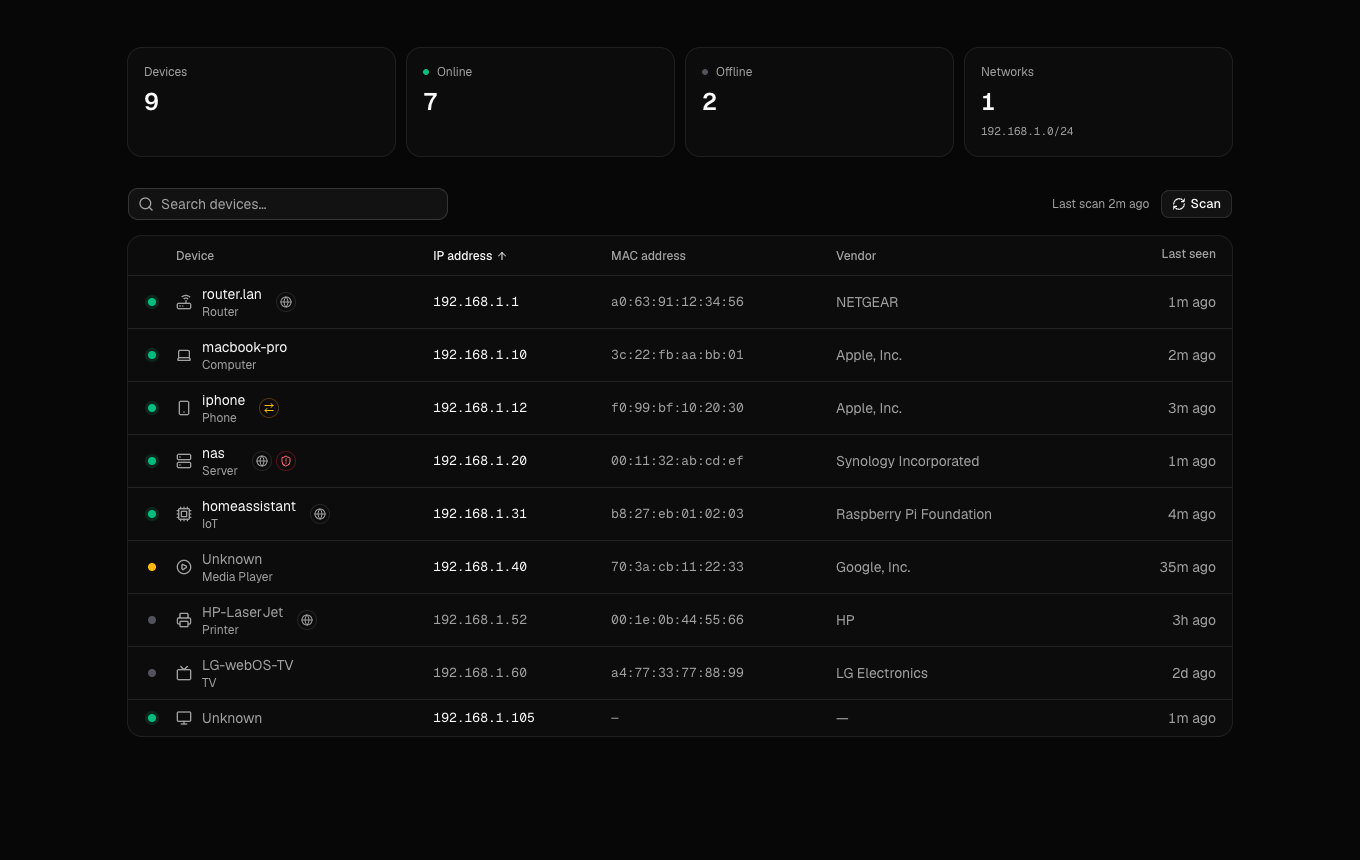
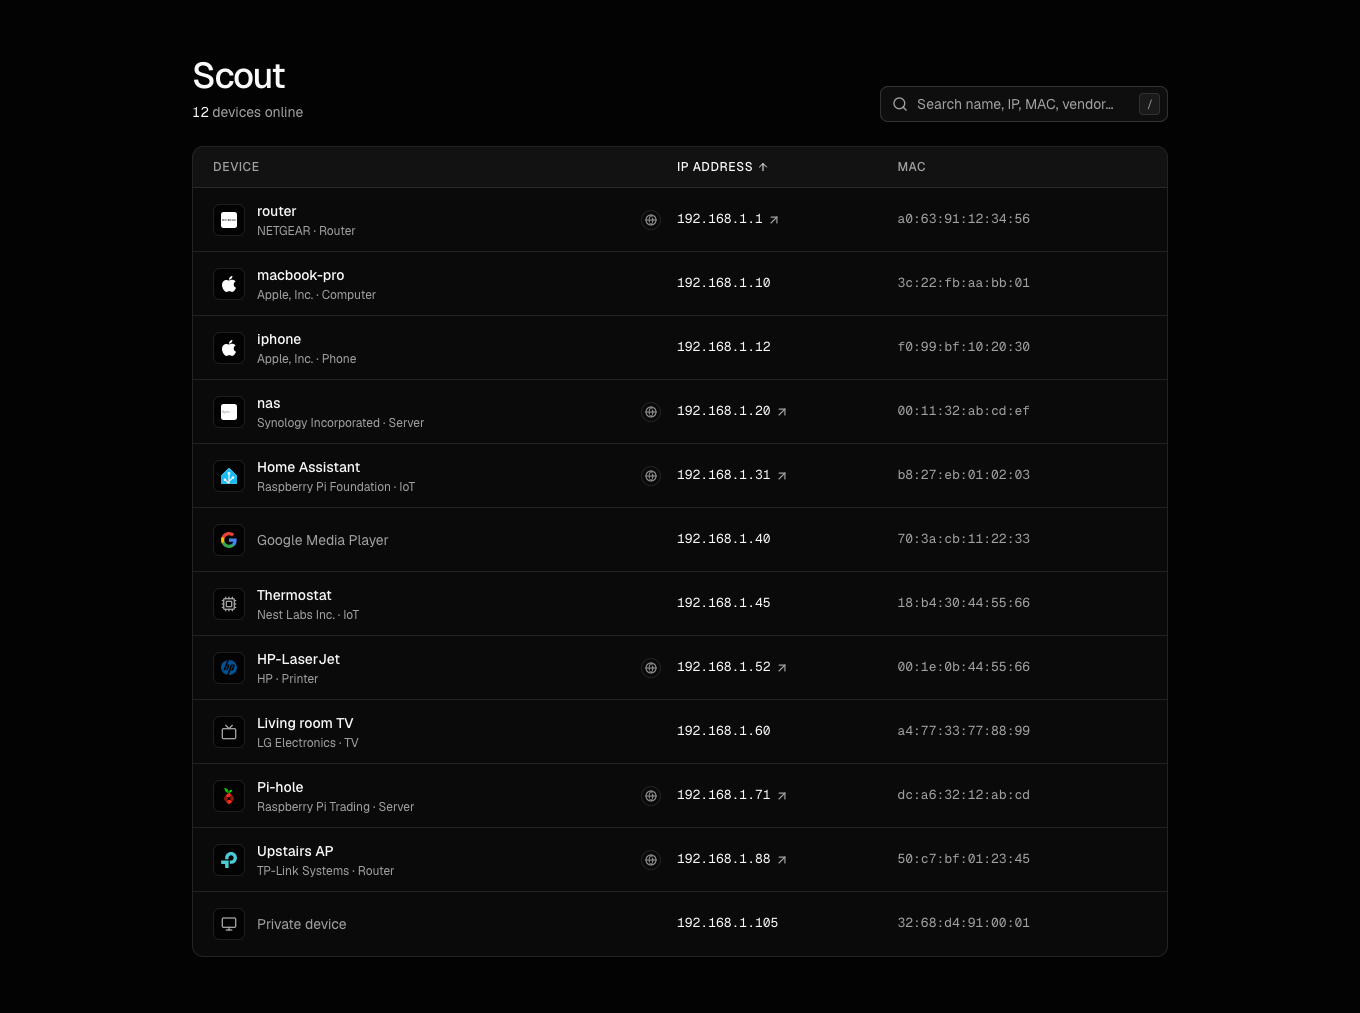
Refresh the README screenshot and details for the current dashboard (#7)

diff --git a/README.md b/README.md
@@ -1,6 +1,6 @@
 # Scout
 
-A minimal, self-hosted LAN scanner. It runs as one Go binary with an embedded dashboard that lists the devices on your network right now, one row per device, with no logins and no settings pages. It rescans every 60 seconds and drops a device after it misses two scans in a row.
+A minimal, self-hosted LAN scanner. It runs as one Go binary with an embedded dashboard that lists the devices on your network right now, one row per device, with no logins and no settings pages. It rescans every 60 seconds, the page refreshes itself every 10 seconds, and a device drops off the list after it misses two scans in a row.
 
 ![Scout dashboard](docs/screenshot.png)
 
@@ -24,6 +24,8 @@ services:
 ```
 
 Open `http://<host>:291`. Host networking is required, so this won't work under Docker Desktop on macOS or Windows.
+
+Press `/` to jump to the search box, which matches name, IP, MAC and vendor. When service detection is on, devices with a web interface get a globe badge and their IP links straight to it.
 
 Click a device name to rename it, then press Enter or click away to save. Click its icon to choose a device icon or search the Dashboard Icons collection. Names and icon choices are saved in `names.json` under `ORANGUTAN_DATA_DIR` (`./data/names.json` with the Compose volume above) and survive scans and restarts. Names are keyed by MAC address. An existing `devices.json` from an earlier version is imported once the first time Scout starts, then left alone. Scout also matches known vendor and device names to Dashboard Icons automatically; manual choices take precedence. Brand icons load from the [Dashboard Icons jsDelivr CDN](https://github.com/homarr-labs/dashboard-icons#direct-links), so they need browser internet access. Scout falls back to a device icon if an image cannot load.
 
@@ -53,7 +55,7 @@ The `ORANGUTAN_*` names and the data path are kept from upstream. Tailscale addr
 
 ## Development
 
-The project needs Go 1.25+, Node 22+, and nmap.
+The project needs Go 1.26+, Node 22+, and nmap.
 
 ```sh
 make web                              # build the dashboard into internal/web/dist
